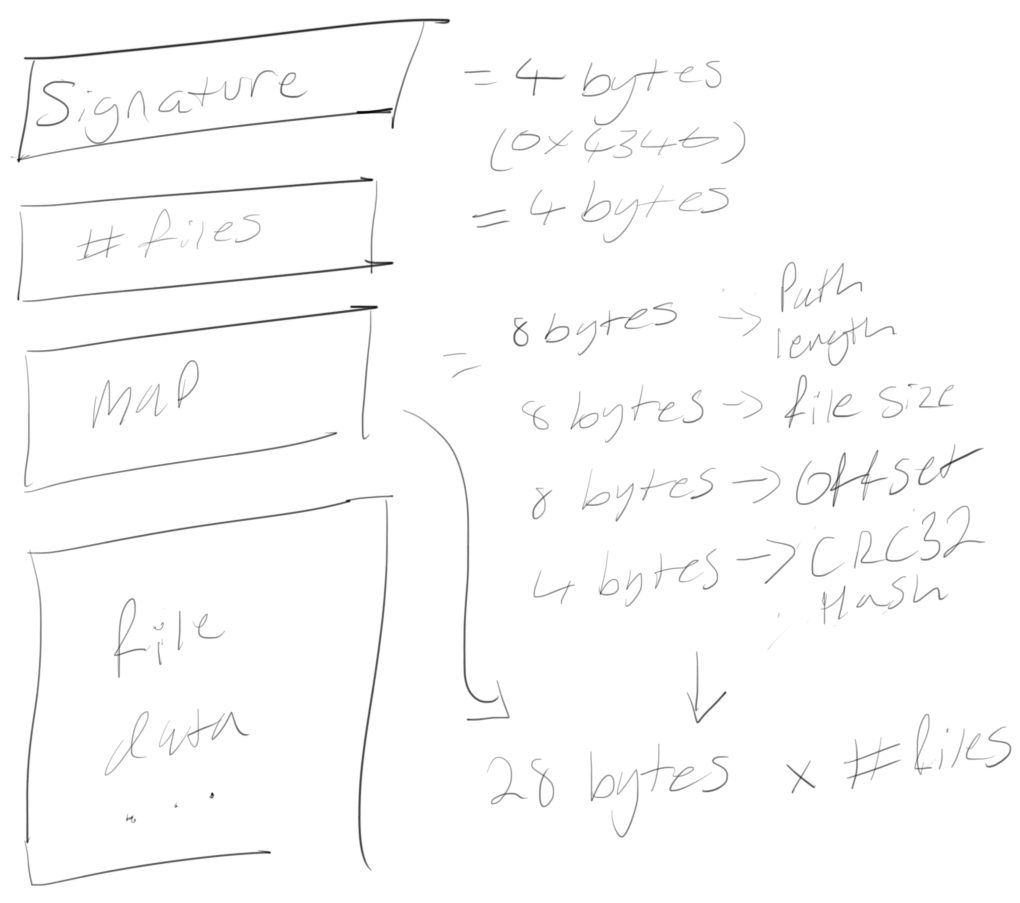
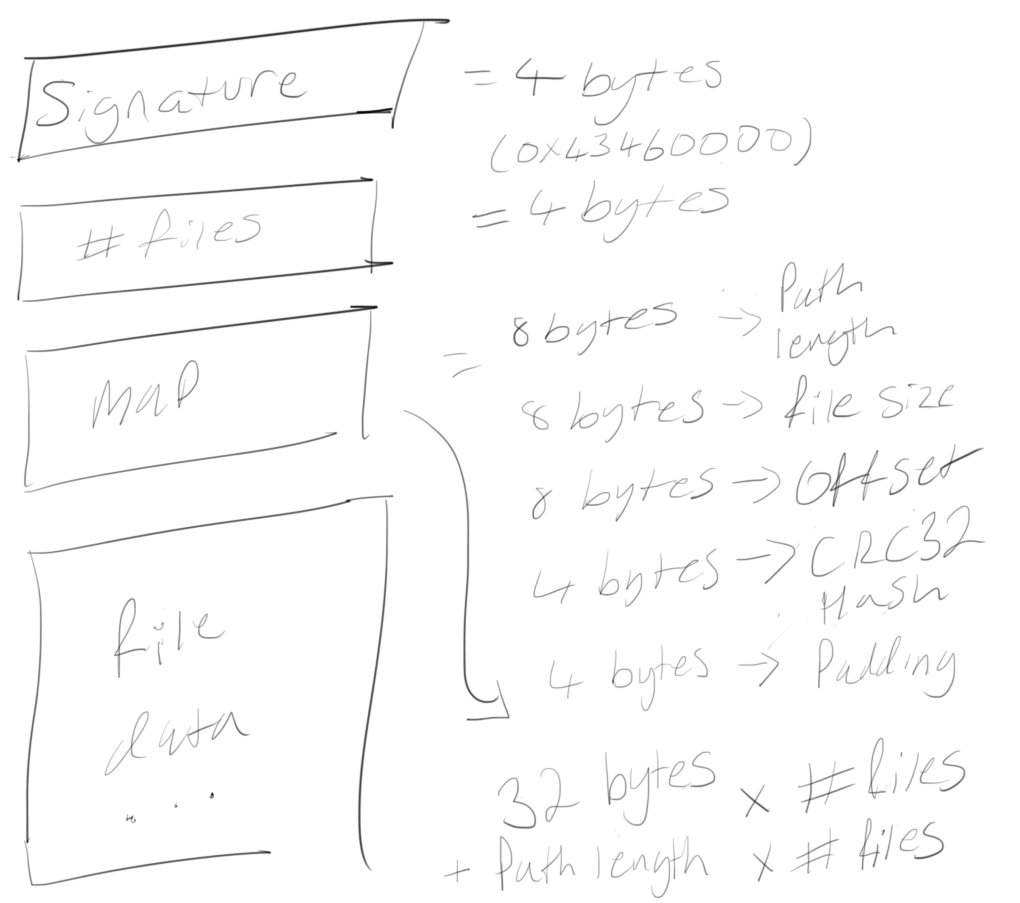
padding changes

diff --git a/src/bcf.c b/src/bcf.c
@@ -88,7 +88,7 @@ void bcfwrite(const char* path, int n, const char** files) {
     header_map[i].name_sz = fn_len;
     FILE* in = fopen(files[i], "r");
     assert(in);
-    header_map[i].hash = crc32(in);
+    header_map[i].hash = (unsigned long long)crc32(in);
     header_map[i].f_sz = ftell(in);
     fclose(in);
     header_map[i].f_off = 0;

diff --git a/src/bcf.h b/src/bcf.h
@@ -17,13 +17,12 @@
 #define BCF_MAGIC 0x4346
 
 struct bcf_header {
-  short magic;
-  int n_files;
+  int magic, n_files;
 };
 
 struct bcf_entry {
   long long name_sz, f_sz, f_off;
-  unsigned int hash;
+  unsigned long long hash;
 };
 
 struct bcf_tree_entry {

diff --git a/tests/extract.c b/tests/extract.c
@@ -2,7 +2,7 @@
           
 int main(int argc, const char* argv[]) {
   struct bcf_tree tree;
-  bcfread(&tree, "tests/test.cf");
+  bcfread(&tree, "tests/test.bcf");
   
   struct bcf_tree_entry* e = NULL;
   for (int i = 0; i < tree.n_entries; ++i) {
